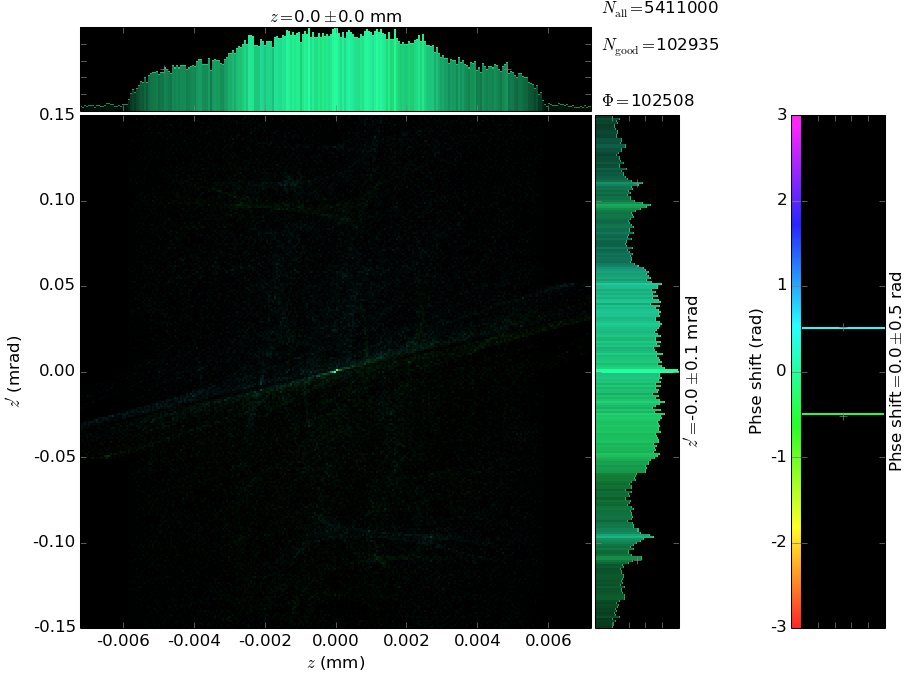
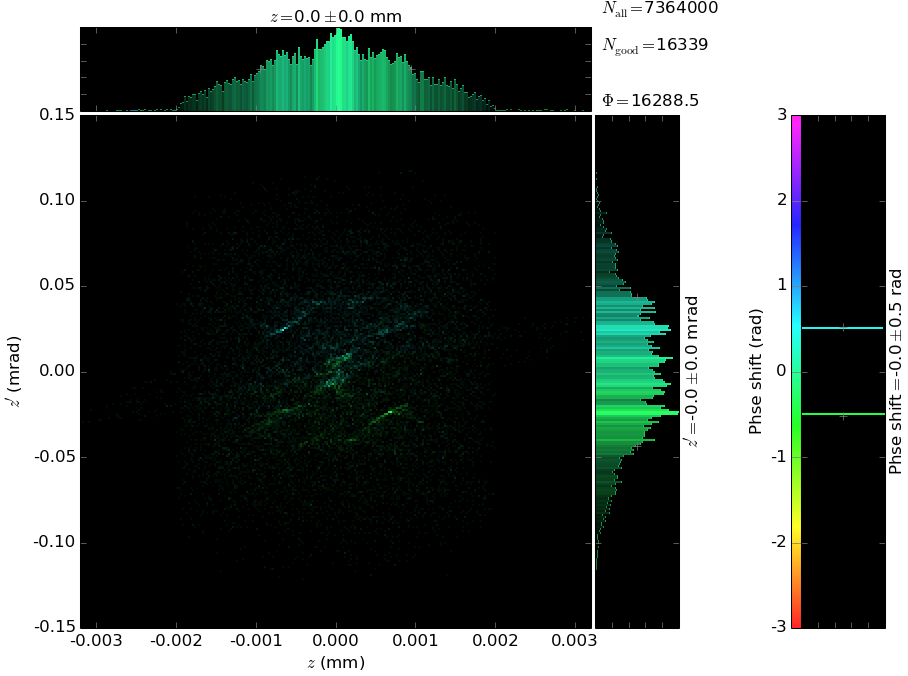
Fixed local radius definition,
- r is constant again, but agrees with what is observed on the Screen
- less photons get outside

diff --git a/simplfiedMonoCapillary.py b/simplfiedMonoCapillary.py
@@ -85,10 +85,10 @@ class StraightCapillary(roe.OE):
         return -np.sinh((s-L_/2.0)/a_)
 
     def local_r0(self, s):  # radius of capillary (s)
-        return -self.ar *(s-self.s0) + self.br*(2.0+np.cos(np.pi/2.0*(s-L_/2.0)/L_/2.0))
+        return self.ar *(s-self.s0)**2 + self.br #+ self.br*(2.0+np.cos(np.pi/2.0*(s-L_/2.0)/L_/2.0))
 
     def local_r0Prime(self, s):
-        return -self.ar + self.br * ( - np.sin(np.pi/2.0*(s-L_/2.0)/L_/2.0))*np.pi/2.0/L_/2.0
+        return self.ar * 2 * (s-self.s0) #+ self.br * ( - np.sin(np.pi/2.0*(s-L_/2.0)/L_/2.0))*np.pi/2.0/L_/2.0
 
 
     def local_r(self, s, phi):
@@ -190,7 +190,7 @@ def main():
     beamLine = build_beamline()
     plots = []
 
-    limit_r = 3.6 * r0      # visible readius
+    limit_r = 1.6 * r0      # visible readius
     xLimits = [y_in - limit_r, y_in + limit_r]
     xpLimits = [-0.15, 0.15]
 #    zLimits = xLimits
